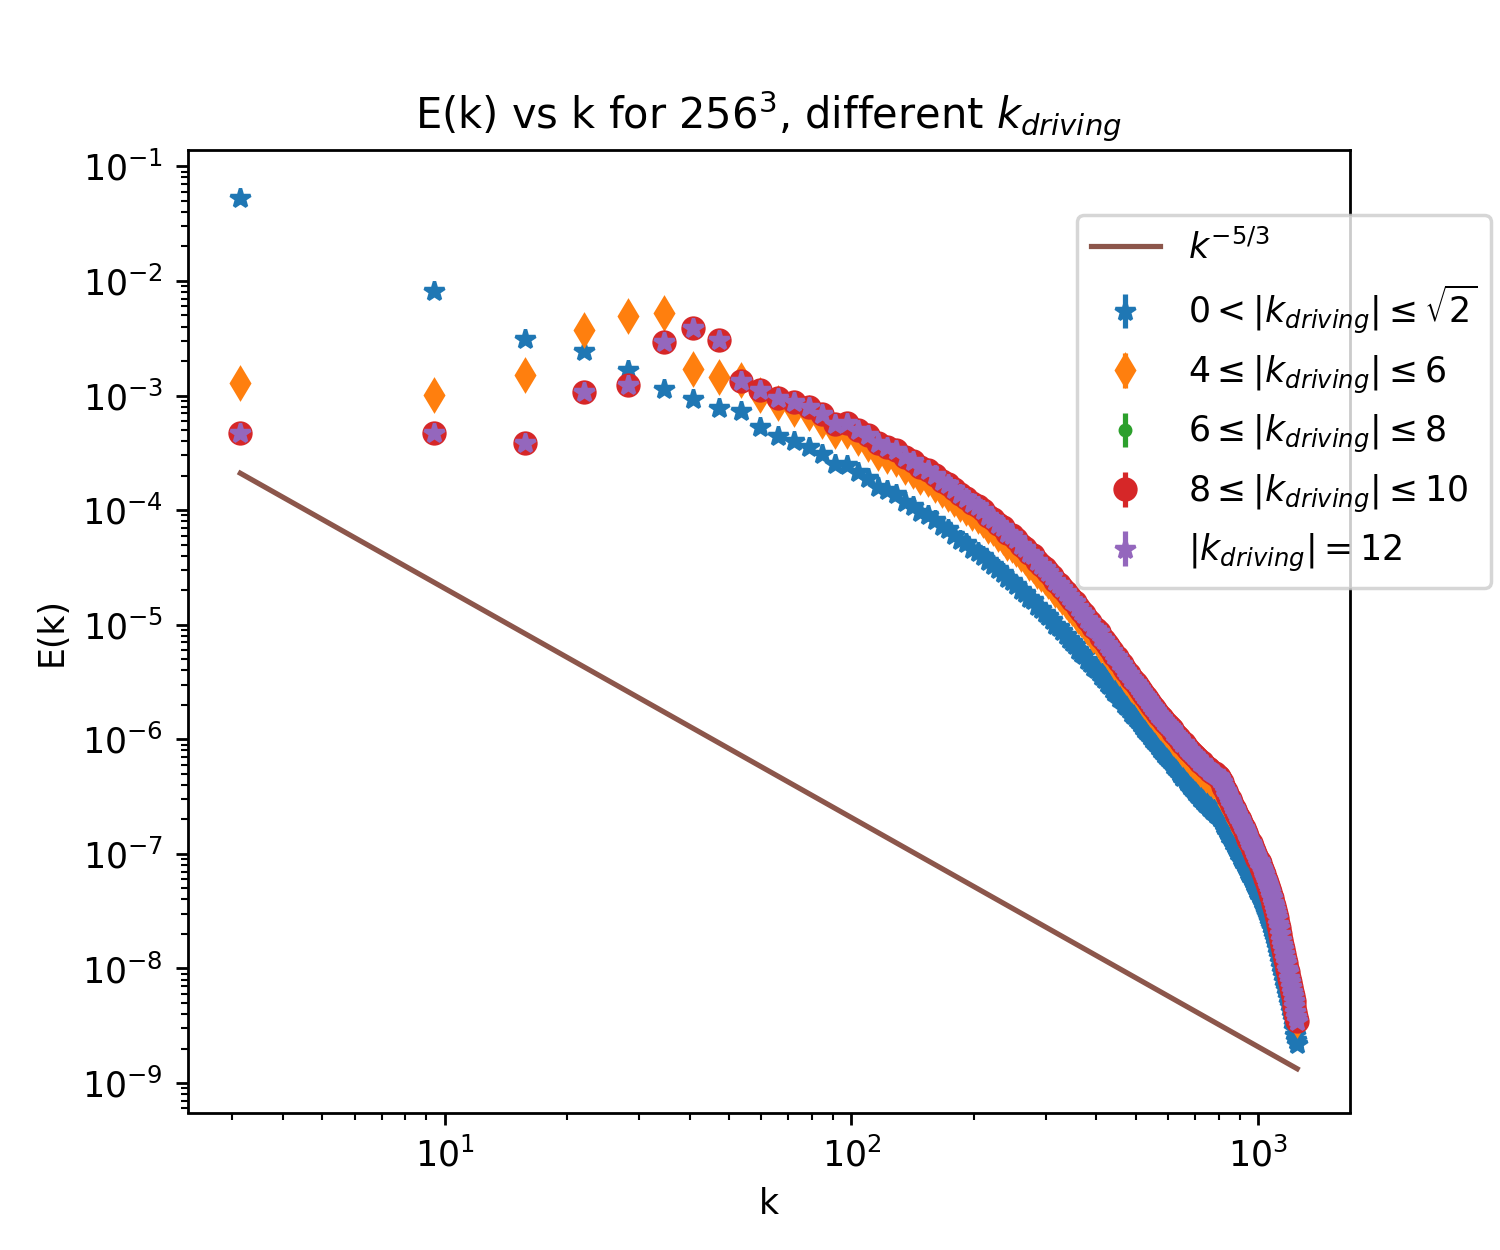
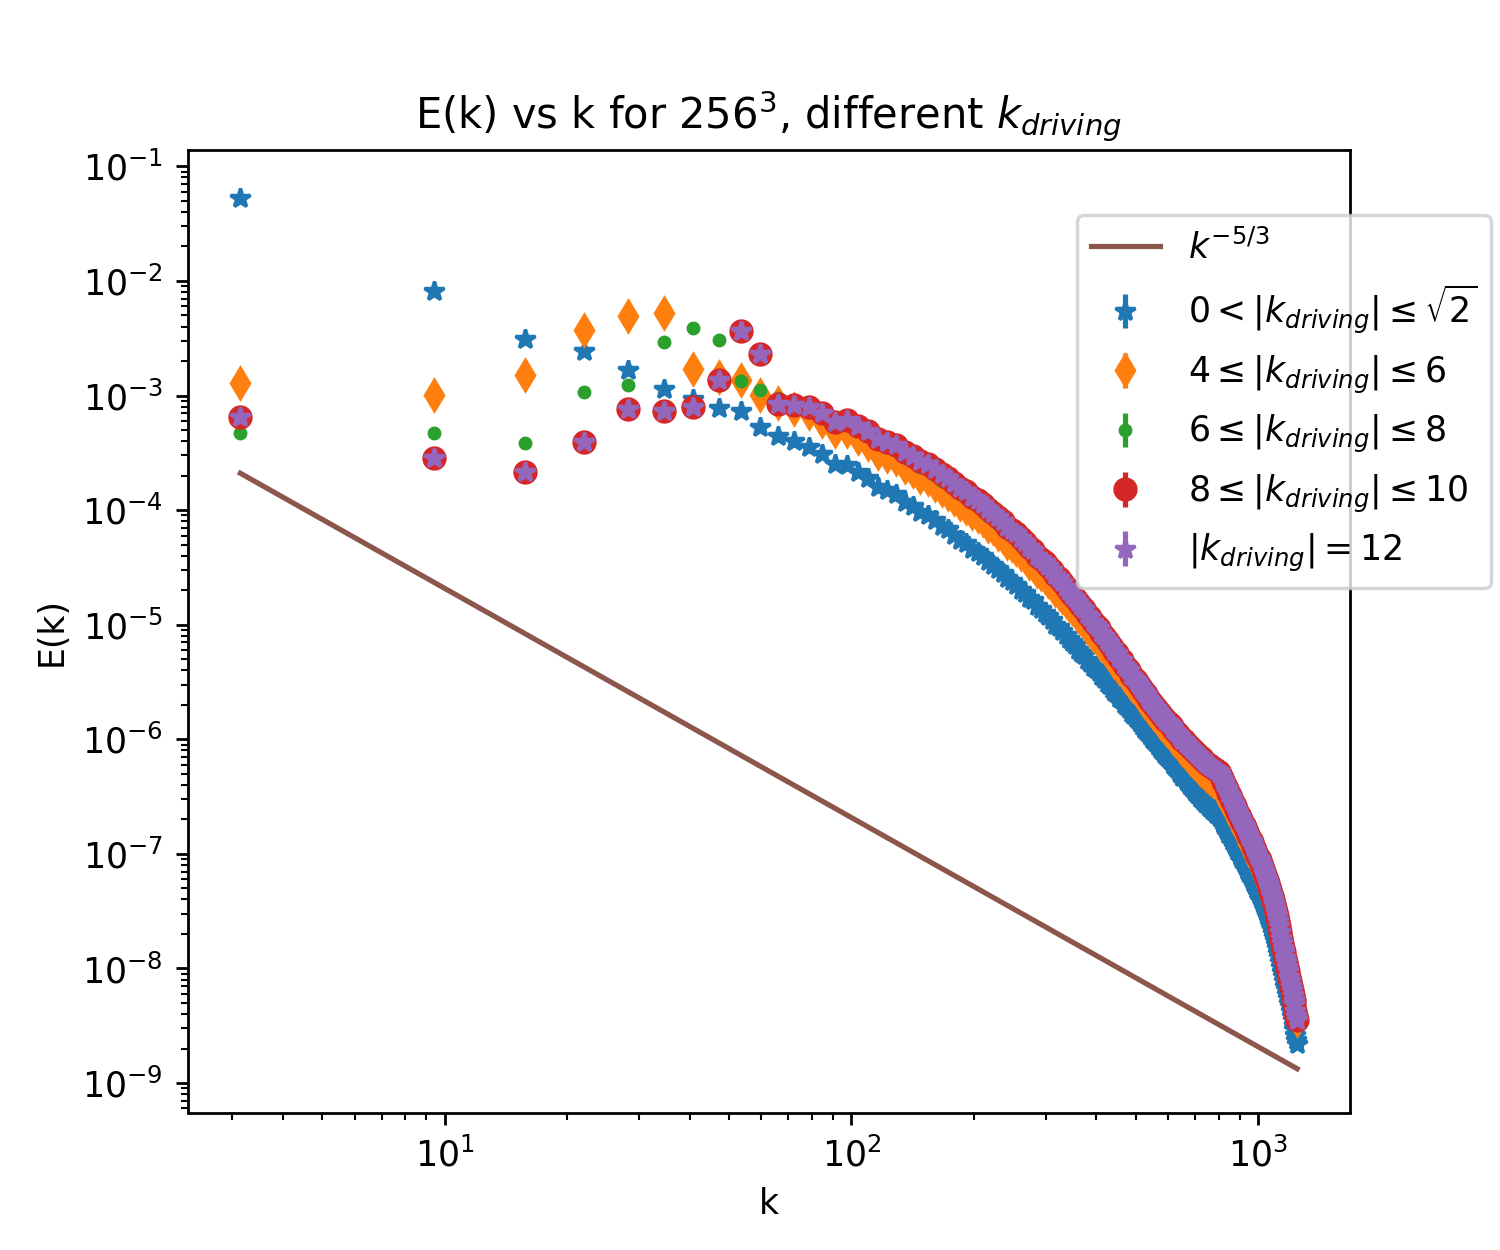
Modified plots

diff --git a/All_analysis/diff_k.py b/All_analysis/diff_k.py
@@ -154,8 +154,8 @@ fig.set_size_inches(6, 5)
 ax.errorbar(k1[1:-10],Ek1[1:-10],yerr=del_Ek1[1:-10],fmt='*-',label=r'$0 < |k_{driving}| \leq \sqrt{2}$')
 ax.errorbar(k2[1:-10],Ek2[1:-10],yerr=del_Ek2[1:-10],fmt='d-',label=r'$4 \leq |k_{driving}| \leq 6$')
 ax.errorbar(k3[1:-10],Ek3[1:-10],yerr=del_Ek3[1:-10],fmt='.-',label=r'$6 \leq |k_{driving}| \leq 8$')
-ax.errorbar(k4[1:-10],Ek3[1:-10],yerr=del_Ek4[1:-10],fmt='.-',label=r'$8 \leq |k_{driving}| \leq 10$')
-ax.errorbar(k5[1:-10],Ek3[1:-10],yerr=del_Ek5[1:-10],fmt='.-',label=r'$|k_{driving}|=12$')
+ax.errorbar(k4[1:-10],Ek4[1:-10],yerr=del_Ek4[1:-10],fmt='.-',label=r'$8 \leq |k_{driving}| \leq 10$')
+ax.errorbar(k5[1:-10],Ek5[1:-10],yerr=del_Ek5[1:-10],fmt='.-',label=r'$|k_{driving}|=12$')
 ax.plot(k1[1:-10],k1[1:-10]**(-5/3),'-',label='$k^{-5/3}$')
 ax.set_yscale('log')
 ax.set_xscale('log')

diff --git a/All_analysis/diff_k_Ek.py b/All_analysis/diff_k_Ek.py
@@ -194,8 +194,8 @@ fig.set_size_inches(6, 5)
 ax.errorbar(k1,Ek1,yerr=del_Ek1,fmt='*',label=r'$0 < |k_{driving}| \leq \sqrt{2}$')
 ax.errorbar(k2,Ek2,yerr=del_Ek2,fmt='d',label=r'$4 \leq |k_{driving}| \leq 6$')
 ax.errorbar(k3,Ek3,yerr=del_Ek3,fmt='.',label=r'$6 \leq |k_{driving}| \leq 8$')
-ax.errorbar(k4,Ek3,yerr=del_Ek4,fmt='o',label=r'$8 \leq |k_{driving}| \leq 10$')
-ax.errorbar(k5,Ek3,yerr=del_Ek5,fmt='*',label=r'$|k_{driving}|=12$')
+ax.errorbar(k4,Ek4,yerr=del_Ek4,fmt='o',label=r'$8 \leq |k_{driving}| \leq 10$')
+ax.errorbar(k5,Ek5,yerr=del_Ek5,fmt='*',label=r'$|k_{driving}|=12$')
 ax.plot(k1,0.01*k1**(-5/3)*epsilon**(-2/3),'-',label='$k^{-5/3}$')
 ax.set_yscale('log')
 ax.set_xscale('log')
